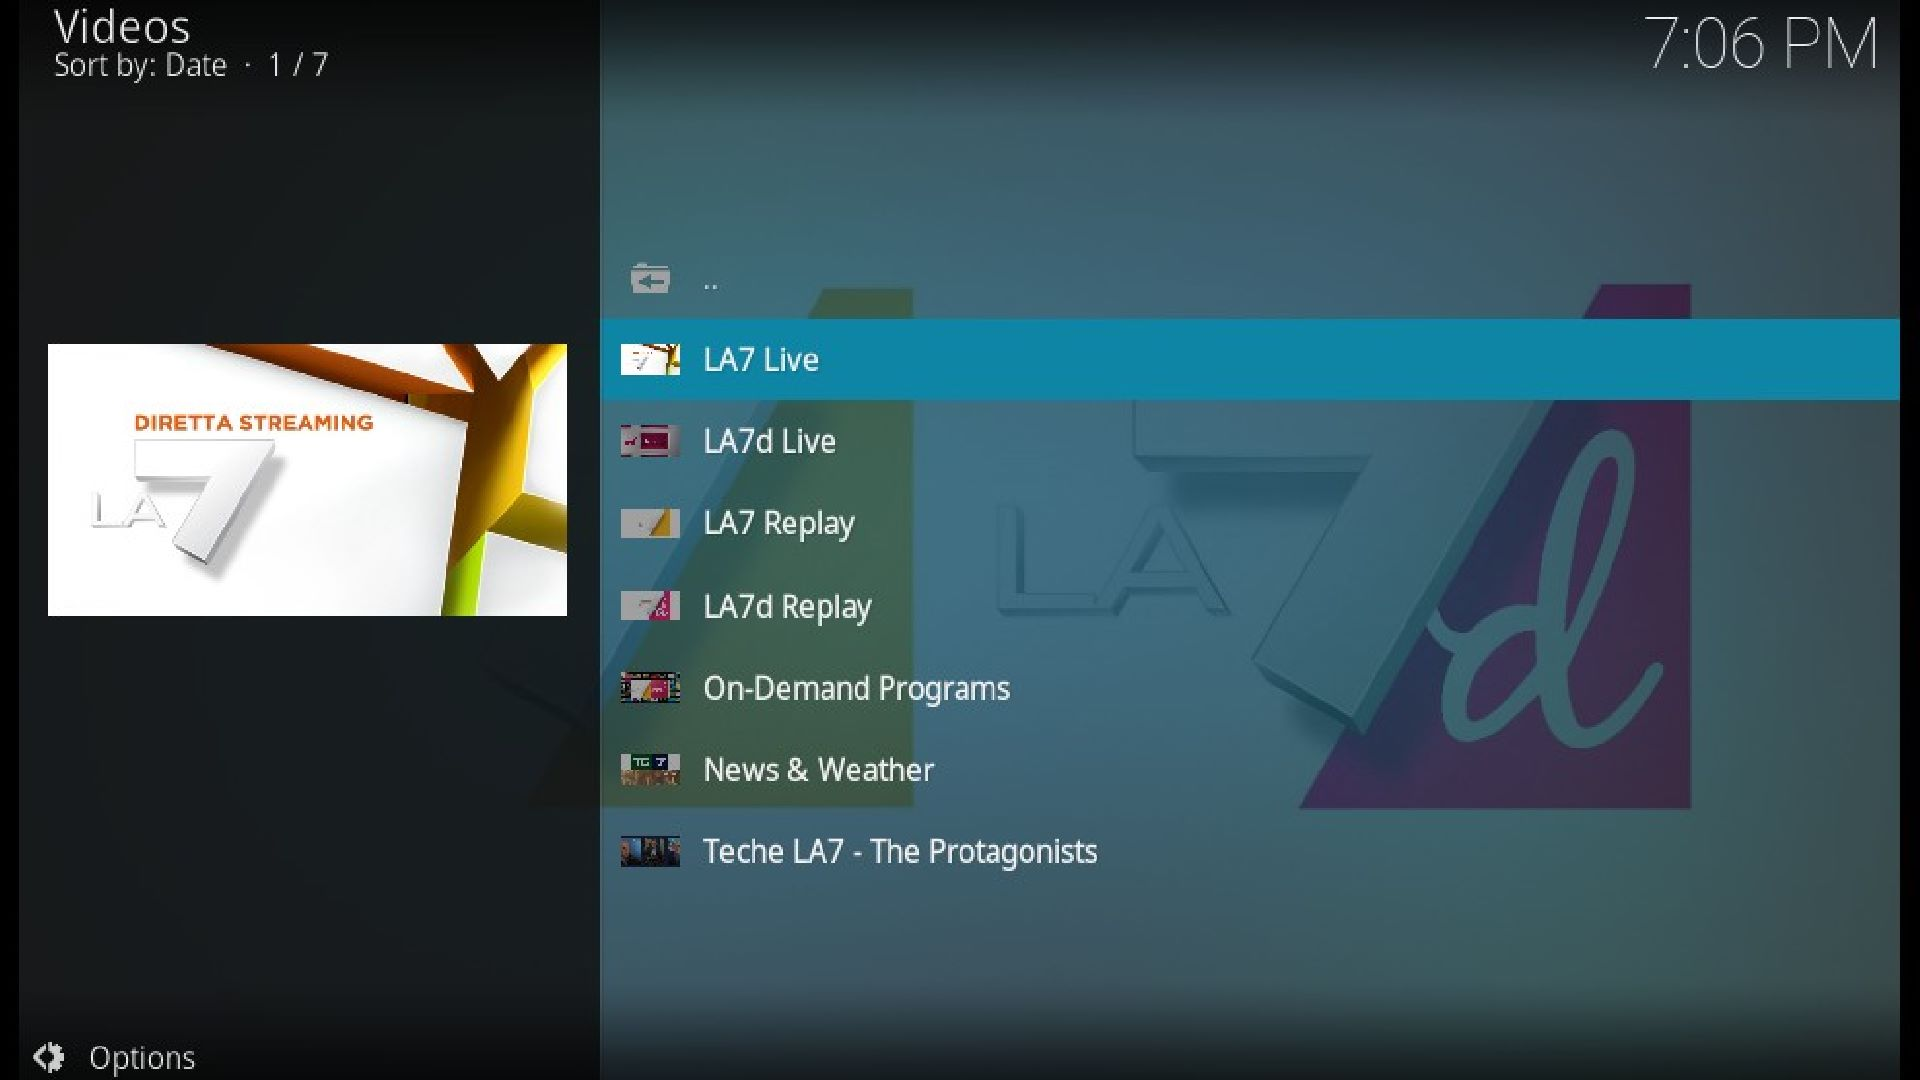
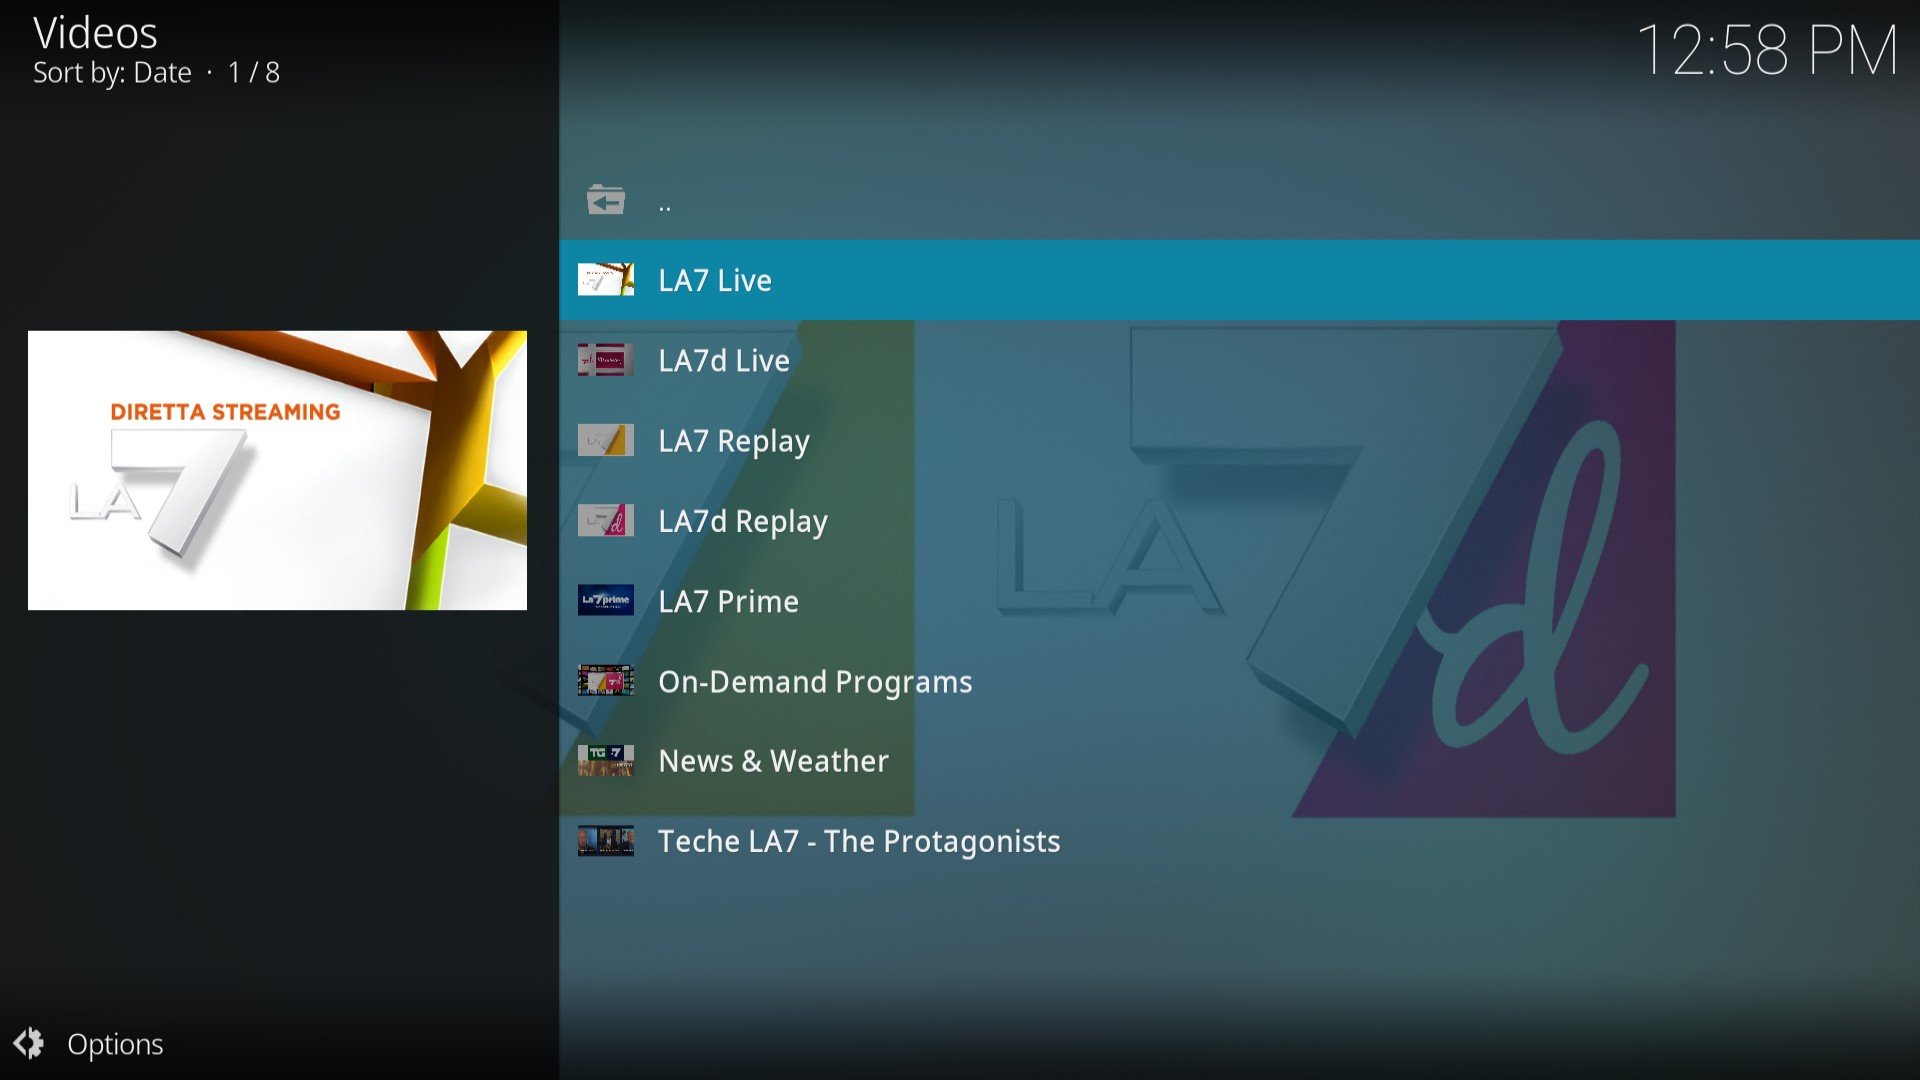
Ver 4.5.0
4.5.0 (2021-01-31)
- Added LA7 Prime

diff --git a/resources/lib/plugin.py b/resources/lib/plugin.py
@@ -31,6 +31,7 @@ url_programmi = "https://www.la7.it/programmi"
 url_programmila7d = "https://www.la7.it/programmi-la7d"
 url_tutti_programmi = "https://www.la7.it/tutti-i-programmi"
 url_teche_la7 = "https://www.la7.it/i-protagonisti"
+url_la7_prime = "https://www.la7.it/la7prime"
 #DRM
 PROTOCOL = 'mpd'
 DRM = 'com.widevine.alpha'
@@ -83,12 +84,15 @@ def show_root_menu():
     liStyle = xbmcgui.ListItem('[B]'+language(32004)+'[/B]')
     liStyle.setArt({ 'thumb': os.path.join(thumb_path, 'rivedila7d.jpg'), 'fanart' : fanart_path })
     addDirectoryItem_nodup({"mode": "rivedi_la7d"},liStyle)
-    liStyle = xbmcgui.ListItem('[B]'+language(32007)+'[/B]')
-    liStyle.setArt({ 'thumb': os.path.join(thumb_path, 'tgmeteo.jpg'), 'fanart' : fanart_path })
-    addDirectoryItem_nodup({"mode": "tg_meteo"},liStyle) 
+    liStyle = xbmcgui.ListItem('[B]'+language(32010)+'[/B]')
+    liStyle.setArt({ 'thumb': os.path.join(thumb_path, 'la7prime.jpg'), 'fanart' : fanart_path })
+    addDirectoryItem_nodup({"mode": "la7_prime"},liStyle)
     liStyle = xbmcgui.ListItem('[B]'+language(32006)+'[/B]')
     liStyle.setArt({ 'thumb': os.path.join(thumb_path, 'programmila7la7d.jpg'), 'fanart' : fanart_path })
     addDirectoryItem_nodup({"mode": "tutti_programmi"},liStyle)
+    liStyle = xbmcgui.ListItem('[B]'+language(32007)+'[/B]')
+    liStyle.setArt({ 'thumb': os.path.join(thumb_path, 'tgmeteo.jpg'), 'fanart' : fanart_path })
+    addDirectoryItem_nodup({"mode": "tg_meteo"},liStyle) 
     liStyle = xbmcgui.ListItem('[B]'+language(32008)+'[/B]')
     liStyle.setArt({ 'thumb': os.path.join(thumb_path, 'techela7.jpg'), 'fanart' : fanart_path })
     addDirectoryItem_nodup({"mode": "teche_la7"},liStyle)
@@ -495,7 +499,8 @@ def video_programma():
     global link_global
     global tg_cronache
     global omnibus_news
-
+    #xbmc.log('LINK GLOBAL------: '+str(link_global),xbmc.LOGNOTICE)
+    
     if link_global == 'flag_tg_cronache':
         tg_cronache = True
         link_global = url_base+'/tgla7'
@@ -760,7 +765,7 @@ def video_programma_landpage():
         get_rows_video_landpage_preview(first_video)
 
     # PUNTATE    
-    if html.findAll(text="puntate"):
+    if (html.findAll(text="puntate")) or (html.findAll(text="Guarda ora")):
         #xbmc.log('TEST------: '+str(html.find('div',class_='home-block__content-inner')),xbmc.LOGNOTICE)
         video_puntate_1r = html.find('div',class_='home-block__content-inner').select('div[class="item"]')
         video_puntate_2r = html.find('section',class_='home-block home-block--oggi-striscia home-block--fixed').find_all('div',class_='item')
@@ -868,6 +873,13 @@ elif mode=="rivedi_la7d":
             rivedi(url_rivedila7d, 'rivedila7d.jpg')
         else:
             rivedi_giorno()
+    else:
+        play_video(play,False)
+
+elif mode=="la7_prime":
+    if play=="":
+        link_global=url_la7_prime
+        video_programma()
     else:
         play_video(play,False)
 

diff --git a/README.md b/README.md
@@ -1,8 +1,11 @@
 # La7-La7d Kodi plugin
-Live Streaming, Replay the last week, On-Demand programs, News and Weather, Teche LA7 - The Protagonists (italian language)
+Live Streaming, Replay the last week, LA7 Prime, On-Demand programs, News & Weather, Teche LA7-The Protagonists (italian language)
 
 
 ### Changelog
+4.5.0 (2021-01-31)
+- Added LA7 Prime
+
 4.4.0 (2020-05-24)
 - Added Landpage scraping on all on-demand programs
 - Separated on-demand programs episodes by Home-Settimana-Archivio
